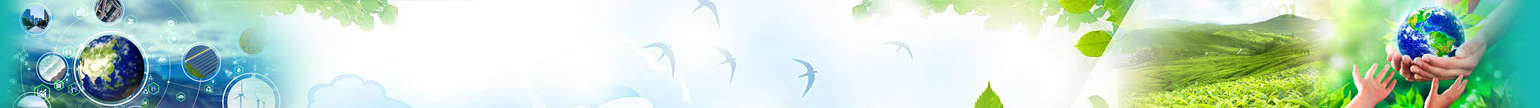
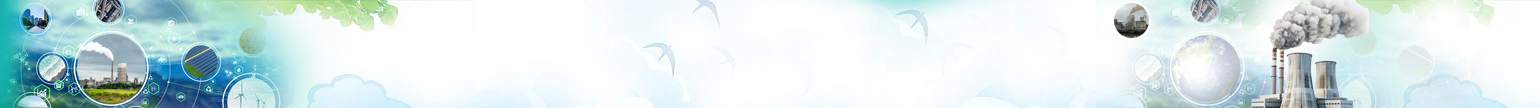
cập nhật giao diện

diff --git a/resources/views/partials/_footer.blade.php b/resources/views/partials/_footer.blade.php
@@ -4,43 +4,53 @@
          class="absolute inset-0 w-full h-full object-cover">
          
     <div class="relative">
-        <div class="container mx-auto flex flex-col space-y-8 px-4 py-8">
-            <!-- Contact Information -->
-            <div class="space-y-4">
-                <p class="flex items-center">
-                    <i class="fas fa-map-marker-alt text-blue-600 mr-2"></i>
-                    <span class="font-medium text-sm sm:text-base">Copyright: GeoInformatics Research Center - TUAF, VietNam</span>
-                </p>
-                <p class="flex items-center">
-                    <i class="fas fa-phone-alt text-blue-600 mr-2"></i>
-                    <span class="font-medium text-sm sm:text-base">Phone: +84 094.03.11.03</span>
-                </p>
-                <p class="flex items-center">
-                    <i class="fas fa-envelope text-blue-600 mr-2"></i>
-                    <a href="mailto:trungtamdiatinhoc@tuaf.edu.vn" 
-                       class="font-medium text-sm sm:text-base hover:text-blue-600 hover:underline break-all">
-                        trungtamdiatinhoc@tuaf.edu.vn
-                    </a>
-                </p>
-            </div>
+        <div class="container mx-auto px-4 py-8">
+            <div class="grid grid-cols-3 gap-4">
+                <!-- Column 1: Copyright -->
+                <div class="flex flex-col items-center justify-center">
+                    <p class="flex items-center text-center">
+                        <i class="fas fa-map-marker-alt text-blue-600 mr-2"></i>
+                        <span class="font-medium text-sm sm:text-base">Copyright: GeoInformatics Research Center - TUAF, VietNam</span>
+                    </p>
+                </div>
 
-            <!-- Statistics Grid -->
-            <div class="grid grid-cols-2 gap-4 sm:gap-x-12">
-                <div class="flex items-center">
-                    <i class="fas fa-signal text-blue-600 mr-2"></i>
-                    <span class="font-medium text-sm sm:text-base">Online now: 2</span>
+                <!-- Column 2: Contact Info -->
+                <div class="flex flex-col items-center justify-center">
+                    <div class="space-y-2">
+                        <p class="flex items-center">
+                            <i class="fas fa-phone-alt text-blue-600 mr-2"></i>
+                            <span class="font-medium text-sm sm:text-base">Phone: +84 094.03.11.03</span>
+                        </p>
+                        <p class="flex items-center">
+                            <i class="fas fa-envelope text-blue-600 mr-2"></i>
+                            <a href="mailto:trungtamdiatinhoc@tuaf.edu.vn" 
+                               class="font-medium text-sm sm:text-base hover:text-blue-600 hover:underline">
+                                trungtamdiatinhoc@tuaf.edu.vn
+                            </a>
+                        </p>
+                    </div>
                 </div>
-                <div class="flex items-center">
-                    <i class="fas fa-calendar-day text-blue-600 mr-2"></i>
-                    <span class="font-medium text-sm sm:text-base">Today: 11</span>
-                </div>
-                <div class="flex items-center">
-                    <i class="fas fa-calendar-alt text-blue-600 mr-2"></i>
-                    <span class="font-medium text-sm sm:text-base">This month: 1813</span>
-                </div>
-                <div class="flex items-center">
-                    <i class="fas fa-users text-blue-600 mr-2"></i>
-                    <span class="font-medium text-sm sm:text-base">Total: 52363</span>
+
+                <!-- Column 3: Statistics -->
+                <div class="flex flex-col items-center justify-center">
+                    <div class="grid grid-cols-2 gap-2">
+                        <p class="flex items-center">
+                            <i class="fas fa-signal text-blue-600 mr-2"></i>
+                            <span class="font-medium text-sm sm:text-base">Online: 2</span>
+                        </p>
+                        <p class="flex items-center">
+                            <i class="fas fa-calendar-day text-blue-600 mr-2"></i>
+                            <span class="font-medium text-sm sm:text-base">Today: 11</span>
+                        </p>
+                        <p class="flex items-center">
+                            <i class="fas fa-calendar-alt text-blue-600 mr-2"></i>
+                            <span class="font-medium text-sm sm:text-base">Month: 1813</span>
+                        </p>
+                        <p class="flex items-center">
+                            <i class="fas fa-users text-blue-600 mr-2"></i>
+                            <span class="font-medium text-sm sm:text-base">Total: 52363</span>
+                        </p>
+                    </div>
                 </div>
             </div>
         </div>

diff --git a/resources/views/partials/_header.blade.php b/resources/views/partials/_header.blade.php
@@ -8,8 +8,8 @@
         <div class="absolute inset-0 flex items-center">
             <div class="container mx-auto px-4 sm:px-12">
                 <h1 class="banner-text text-[#1a4c8c] font-bold">
-                    <div class="text-2xl sm:text-4xl leading-tight">Public health and Air environment</div>
-                    <div class="text-3xl sm:text-5xl leading-tight">Monitoring system</div>
+                    <div class="text-2xl sm:text-4xl leading-tight">Air environment monitoring system of </div>
+                    <div class="text-3xl sm:text-5xl leading-tight">Cement factories</div>
                 </h1>
             </div>
         </div>
